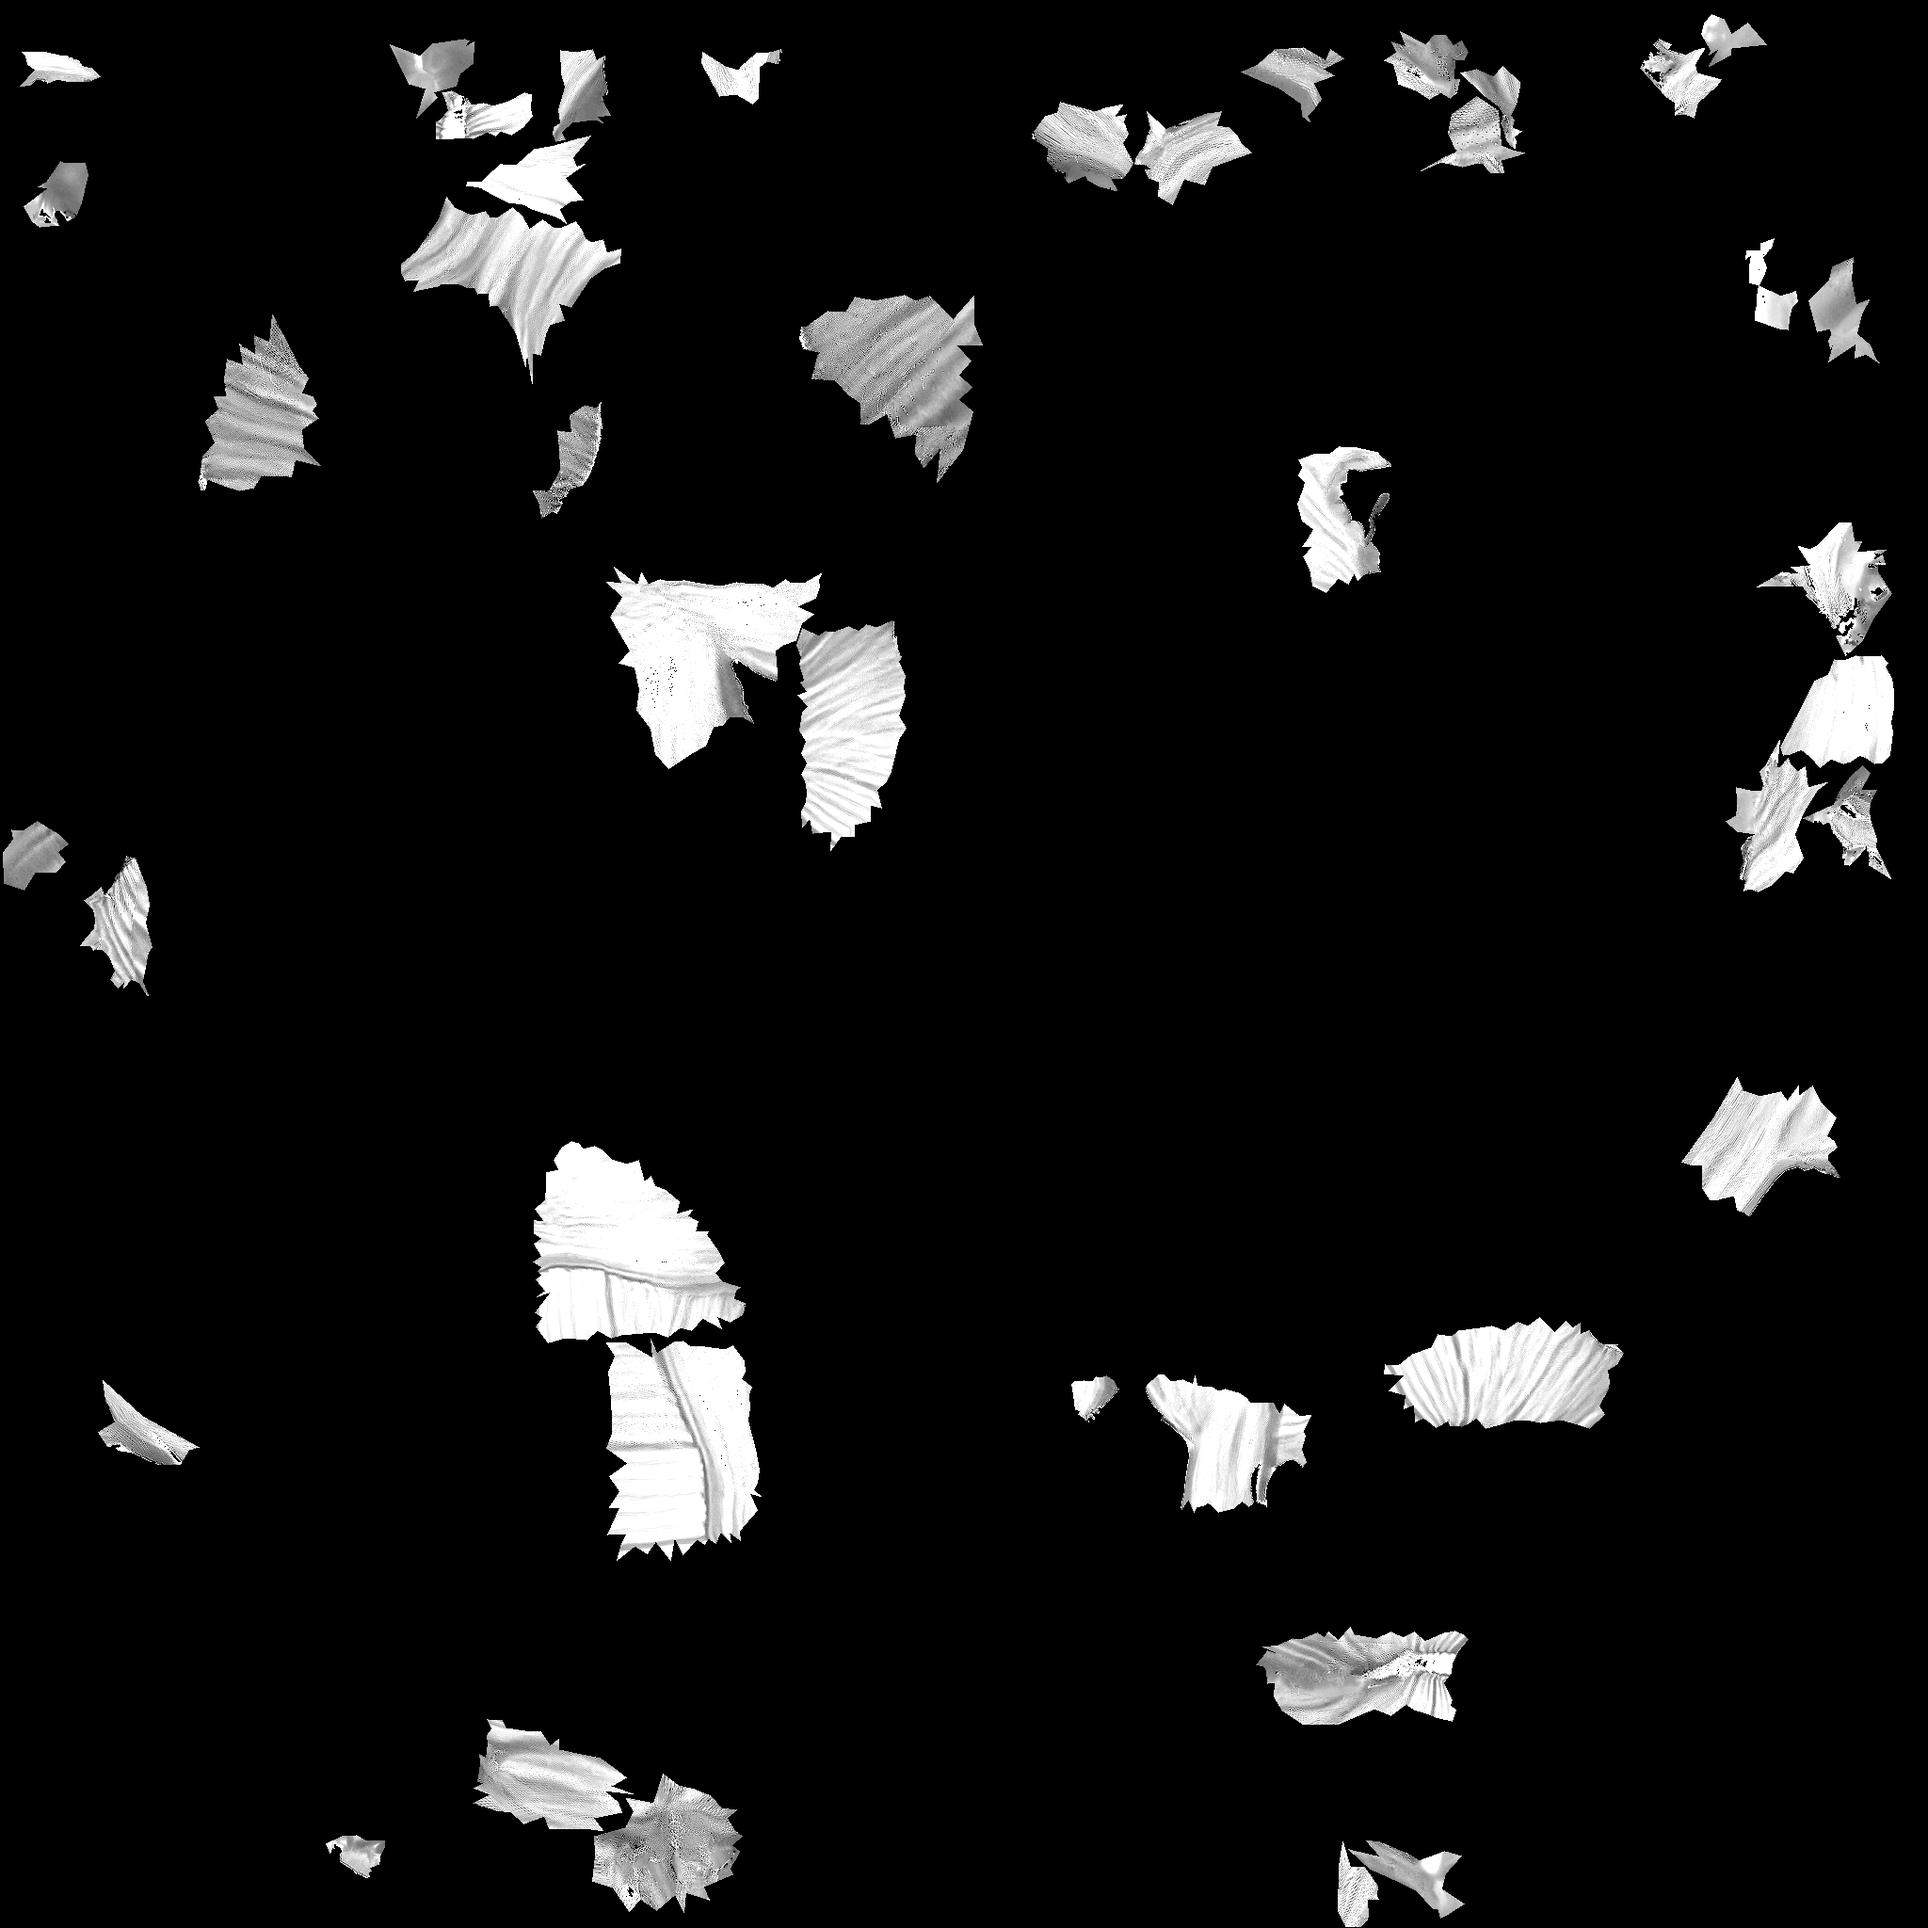
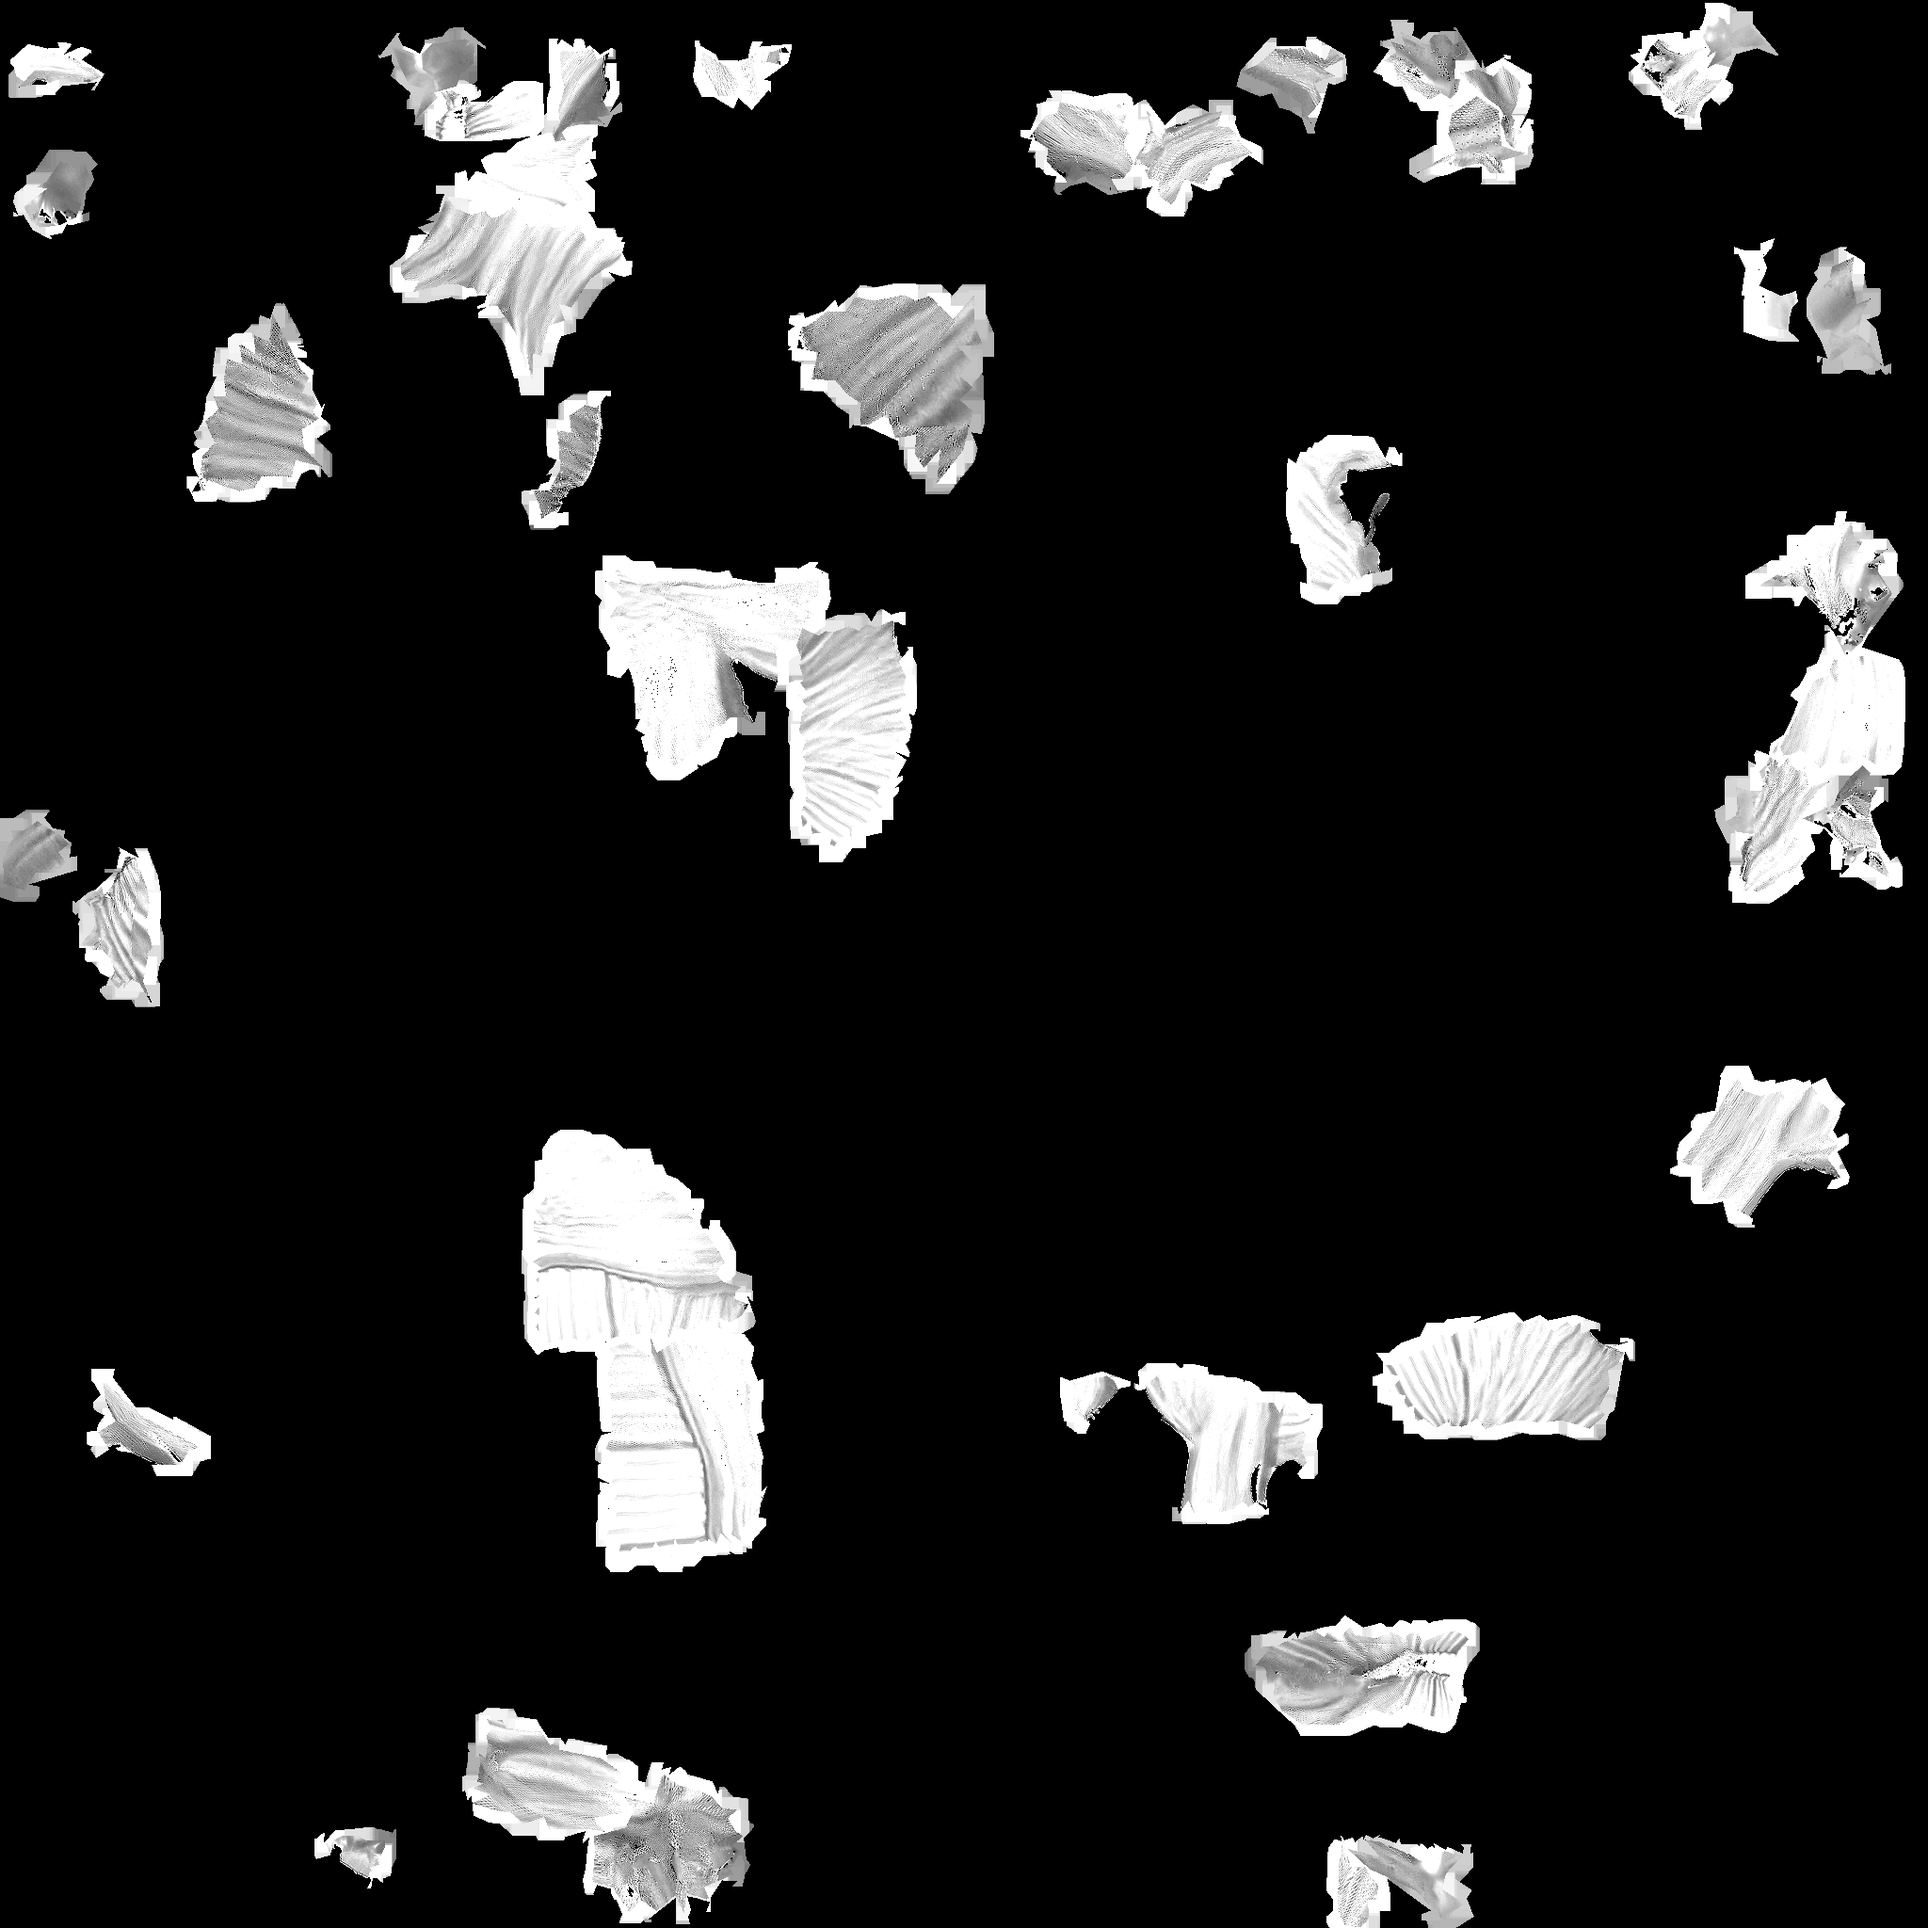
N04-DIALOGUE-PORTRAITS: dilate the hair mask into the atlas gutters
The code-blind judge found a lattice of one-texel dark seams across the
recoloured hair on the in-world figure: at every UV island edge the mask
fell to zero in the gutter and bilinear/mip sampling let the painted brown
through. The albedo is already dilated into those gutters, so the mask now
is too (12 texels of grey dilation, never onto a texel any island uses).

Claude-Session: https://claude.ai/code/session_01AoqCELkyMhtpkDKJBPxv5E

diff --git a/tools/_bake_villager_female_hair_mask.py b/tools/_bake_villager_female_hair_mask.py
@@ -24,6 +24,16 @@ How the mask is found, so it can be re-baked if the rig or its texture changes:
      `StandardMaterial3D` mixes `detail_albedo` over the body texture by this
      value, so a crevice the painter darkened stays darker in the new colour
      and the hair keeps its painted shading instead of flattening to a swatch.
+  5. The mask is then DILATED into the atlas gutters -- the empty texels
+     between UV islands -- by up to GUTTER_DILATION texels of grey dilation,
+     never onto a texel any island of the body mesh actually uses. Without
+     this, bilinear and mip sampling at the edge of every hair island blends
+     toward the mask's zero in the gutter and the painted dark brown shows
+     through as a lattice of one-texel seams across the head in the world
+     (the plate, sampled close up at mip 0, hid it). The albedo itself is
+     already dilated into those gutters by whatever authored it, which is
+     why the ORIGINAL hair shows no seams; the mask has to be dilated the
+     same way to follow it.
 
 Run from the repo root with numpy, Pillow and scipy installed:
 
@@ -53,6 +63,7 @@ HAIR_MIN_WARMTH = 8
 MIN_COMPONENT_TEXELS = 1500
 SHADE_REFERENCE_LUMA = 28.0
 SHADE_GAMMA = 0.7
+GUTTER_DILATION = 12
 
 
 def load_glb(path):
@@ -111,6 +122,10 @@ def main():
     meshes = {m["name"]: m for m in doc["meshes"]}
     region = rasterise(doc, blob, meshes["char1"], size, True, head_joints)
     region |= rasterise(doc, blob, meshes["hair_ponytail"], size, False, head_joints)
+    # Every texel any triangle of the body or ponytail uses, head or not: the
+    # dilation below may only ever grow into what is left (the gutters).
+    used = rasterise(doc, blob, meshes["char1"], size, False, head_joints)
+    used |= rasterise(doc, blob, meshes["hair_ponytail"], size, False, head_joints)
 
     r, g, b = rgb[..., 0], rgb[..., 1], rgb[..., 2]
     luma = 0.299 * r + 0.587 * g + 0.114 * b
@@ -122,10 +137,18 @@ def main():
 
     shade = np.clip(luma / SHADE_REFERENCE_LUMA, 0.0, 1.0) ** SHADE_GAMMA
     mask = np.where(kept, shade, 0.0)
+    gutter = ~used
+    grown = mask.copy()
+    for _ in range(GUTTER_DILATION):
+        wider = ndimage.grey_dilation(grown, size=(3, 3))
+        grown = np.where(gutter, np.maximum(grown, wider), grown)
+    dilated = int(((grown > 0) & ~kept).sum())
+    mask = grown
     Image.fromarray((mask * 255.0 + 0.5).astype(np.uint8), "L").save(OUT, optimize=True)
-    print("head region %d texels, hair candidates %d, kept %d in %d components; mean mask value over hair %.2f"
+    print("head region %d texels, hair candidates %d, kept %d in %d components; mean mask value over hair %.2f; "
+          "dilated %d gutter texels"
           % (region.sum(), candidate.sum(), kept.sum(), int((sizes >= MIN_COMPONENT_TEXELS).sum()),
-             float(mask[kept].mean())))
+             float(mask[kept].mean()), dilated))
     print("wrote", os.path.relpath(OUT, ROOT))
 
 
